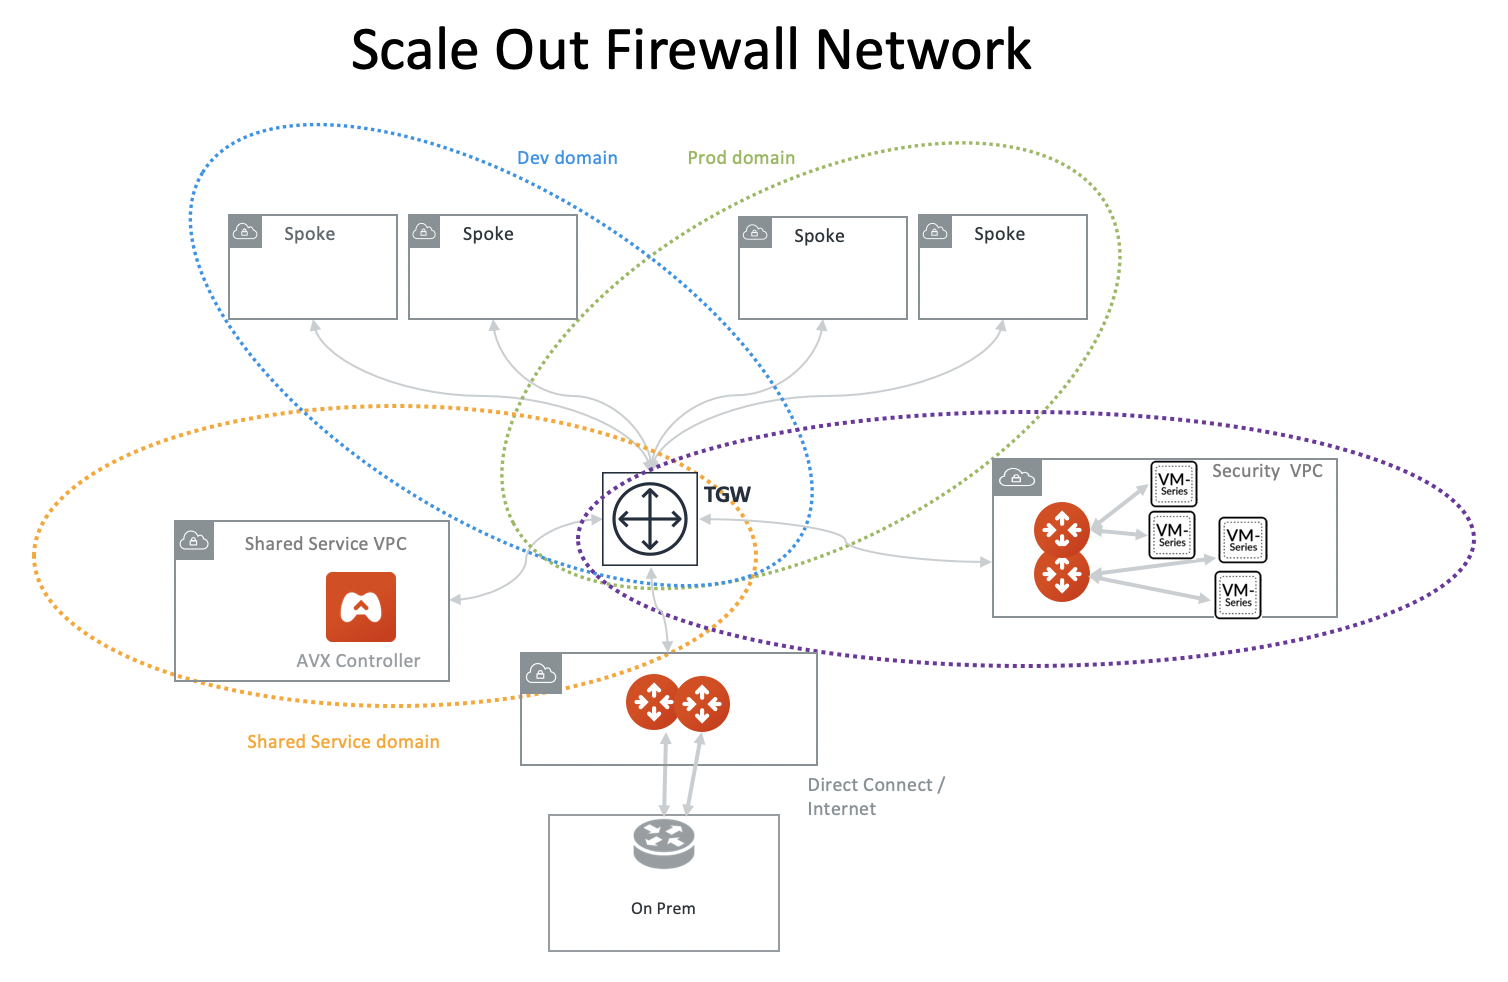
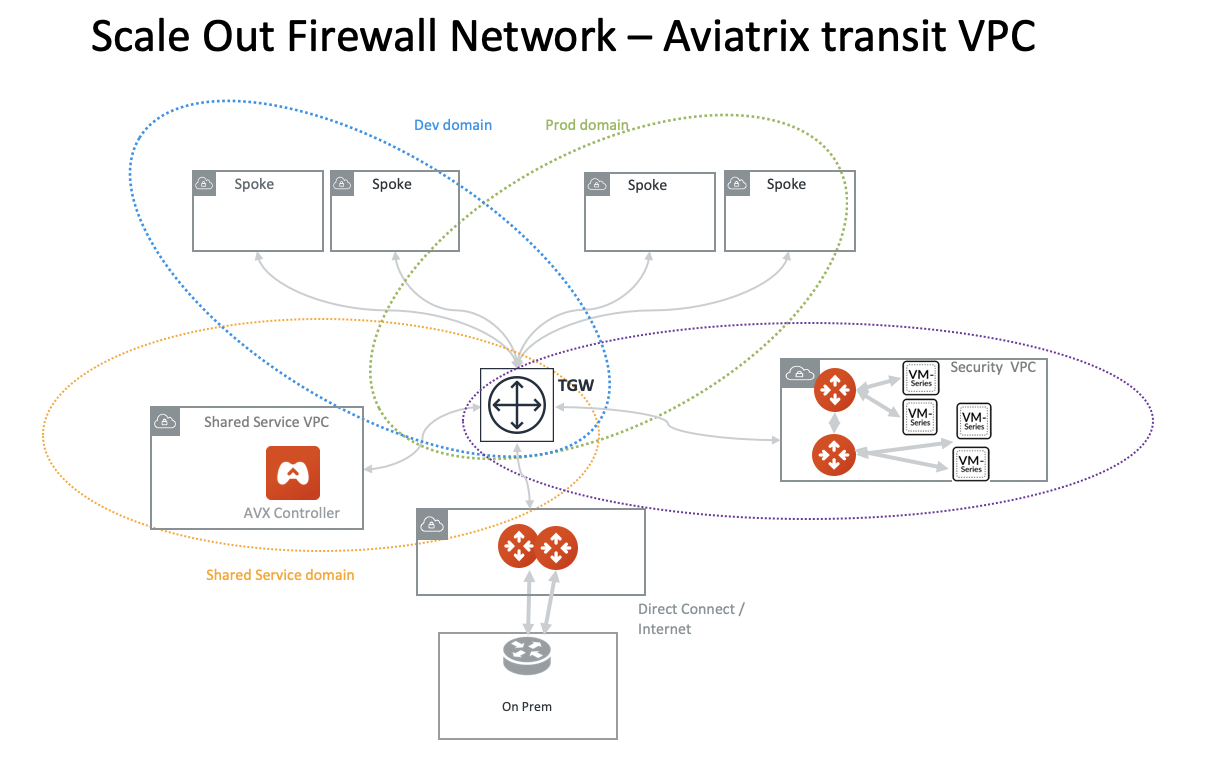
update firewall network

diff --git a/HowTos/firewall_network.rst b/HowTos/firewall_network.rst
@@ -19,15 +19,21 @@ Benefits of FireNet Deployment Model
  - **Vendor Integration** Launch Palo Alto Networks VM-Series from the Aviatrix Controller console to simplify deployment. 
  - **Automation** The Aviatrix Controller automatically updates Palo Alto VM-Series route tables when on-prem route changes or VPC attachment changes. 
 
-FireNet Deployment Model 1
-------------------------------
+FireNet Deployment Model 1 - Transit VPC
+---------------------------------------------------
 
-FireNet is currently supported for AWS Transit Gateway (TGW), as shown below. 
+FireNet supports AWS Transit Gateway (TGW), as shown below. 
 
 |firenet_transit|
 
+FireNet Deployment Model 2 - Insane Mode
+----------------------------------------------
 
-FireNet Deployment Model 2 (Future release)
+FireNet supports AWS Transit (TGW) with Insane Mode,  
+
+|firenet_insane|
+
+FireNet Deployment Model 3 (Future release)
 ----------------------------------------------
 
 In the future release, the hybrid deployment can be using native AWS Direct Connect Gateway. 
@@ -50,6 +56,9 @@ much lower than what firewall instances can do without IPSEC tunnel.
    :scale: 30%
 
 .. |firenet_transit| image:: firewall_network_media/firenet_transit.png
+   :scale: 30%
+
+.. |firenet_insane| image:: firewall_network_media/firenet_insane.png
    :scale: 30%
 
 .. |main_companion_gw| image:: transit_dmz_media/main_companion_gw.png
